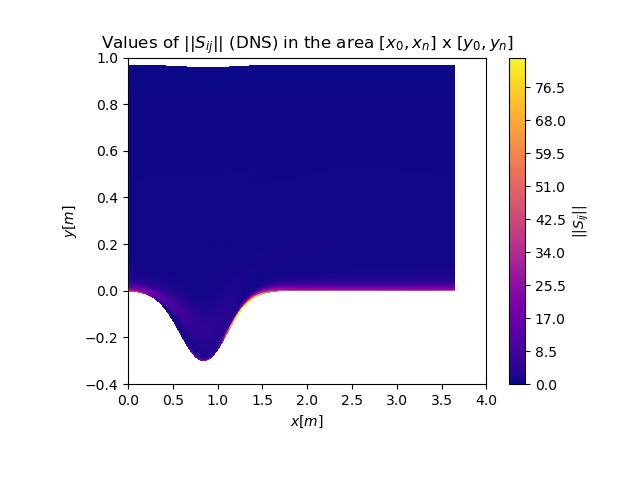
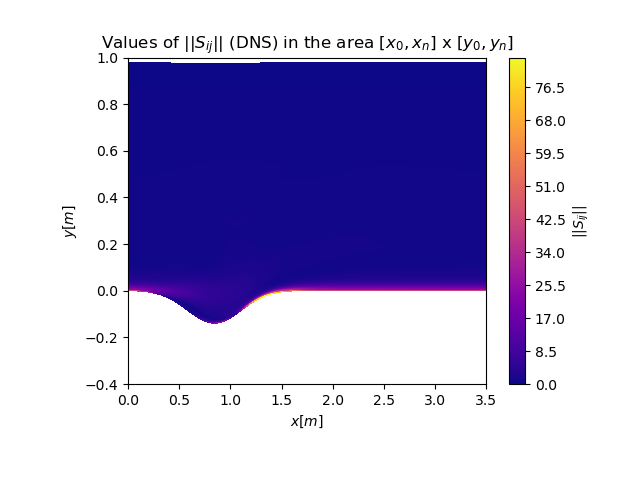
wrong plots

diff --git a/pl_vect2d-1.py b/pl_vect2d-1.py
@@ -481,13 +481,13 @@ y2d = np.delete(y2d, -1, 0)
 y2d = np.delete(y2d, -1, 1)
 # y2d = np.delete(y2d,  0,1)
 
-
+# SHOULD PLOTS USE x2d or xp2d, y2d or xp2d (large/small)
 # plot the
 fig1, ax1 = plt.subplots()
 plt.subplots_adjust(left=0.20, bottom=0.20)
-fig1.colorbar(plt.contourf(x2d, y2d, cmy_DNS, 1000, cmap=plt.get_cmap("plasma")), ax=ax1, label="$C_\mu$")
+fig1.colorbar(plt.contourf(xp2d, yp2d, cmy_DNS, 1000, cmap=plt.get_cmap("plasma")), ax=ax1, label="$C_\mu$")
 plt.axis([0, 3.5, -0.4, 1])
-plt.title("Values of $C_\mu$ (DNS) in the area $[x_0,x_n] x [y_0,y_n]$")
+plt.title("Values of $C_\mu$ (DNS large) in the area $[x_0,x_n] x [y_0,y_n]$")
 plt.xlabel("$x [m]$")
 plt.ylabel("$y [m]$")
 plt.savefig("pictures/C_my_in_domain.png")
@@ -497,16 +497,16 @@ y_svr = np.reshape(y_svr, (ni, nj))
 
 fig2, ax2 = plt.subplots()
 plt.subplots_adjust(left=0.20, bottom=0.20)
-fig2.colorbar(plt.contourf(x2d, y2d, cmy_DNS_large, 1000, cmap=plt.get_cmap("plasma")), ax=ax2, label="$C_\mu$") # y_svr
+fig2.colorbar(plt.contourf(xp2d_large, yp2d_large, cmy_DNS_large, 1000, cmap=plt.get_cmap("plasma")), ax=ax2, label="$C_\mu$") # y_svr
 plt.axis([0, 3.5, -0.4, 1])
-plt.title("Values of $C_\mu$ (Prediction) in the area $[x_0,x_n]$ x $[y_0,y_n]$")
+plt.title("Values of $C_\mu$ (DNS small) in the area $[x_0,x_n]$ x $[y_0,y_n]$")
 plt.xlabel("$x [m]$")
 plt.ylabel("$y [m]$")
 plt.savefig("pictures/C_my_pred_in_domain.png")
 
 fig3, ax3 = plt.subplots()
 plt.subplots_adjust(left=0.20, bottom=0.20)
-fig3.colorbar(plt.contourf(x2d, y2d, abs(dudy_large + dvdx_large), 1000, cmap=plt.get_cmap("plasma")), ax=ax3, label="$||S_{ij}||$")
+fig3.colorbar(plt.contourf(xp2d_large, yp2d_large, abs(dudy_large + dvdx_large), 1000, cmap=plt.get_cmap("plasma")), ax=ax3, label="$||S_{ij}||$")
 plt.axis([0, 3.5, -0.4, 1])
 plt.title("Values of $||S_{ij}||$ (DNS) in the area $[x_0,x_n]$ x $[y_0,y_n]$")
 plt.xlabel("$x [m]$")
@@ -515,7 +515,7 @@ plt.savefig("pictures/S_ij_in_domain.png")
 
 fig4, ax4 = plt.subplots()
 plt.subplots_adjust(left=0.20, bottom=0.20)
-fig4.colorbar(plt.contourf(x2d, y2d, u2d_large, 1000, cmap=plt.get_cmap("plasma")), ax=ax4, label="$u(x,y)$")
+fig4.colorbar(plt.contourf(xp2d_large, yp2d_large, u2d_large, 1000, cmap=plt.get_cmap("plasma")), ax=ax4, label="$u(x,y)$")
 plt.axis([0, 3.5, -0.4, 1])
 plt.title("Values of $u(x,y)$ (DNS) in the area $[x_0,x_n]$ x $[y_0,y_n]$")
 plt.xlabel("$x [m]$")
@@ -524,7 +524,7 @@ plt.savefig("pictures/u_in_domain.png")
 
 fig5, ax5 = plt.subplots()
 plt.subplots_adjust(left=0.20, bottom=0.20)
-fig5.colorbar(plt.contourf(x2d, y2d, v2d_large, 1000, cmap=plt.get_cmap("plasma")), ax=ax5, label="$v(x,y)$")
+fig5.colorbar(plt.contourf(xp2d_large, yp2d_large, v2d_large, 1000, cmap=plt.get_cmap("plasma")), ax=ax5, label="$v(x,y)$")
 plt.axis([0, 3.5, -0.4, 1])
 plt.title("Values of $v(x,y)$ (DNS) in the area $[x_0,x_n]$ x $[y_0,y_n]$")
 plt.xlabel("$x [m]$")
@@ -533,7 +533,7 @@ plt.savefig("pictures/v_in_domain.png")
 
 fig6, ax6 = plt.subplots()
 plt.subplots_adjust(left=0.20, bottom=0.20)
-fig6.colorbar(plt.contourf(x2d, y2d, dudy_large, 1000, cmap=plt.get_cmap("plasma")), ax=ax6, label="$\partial u /\partial y$")
+fig6.colorbar(plt.contourf(xp2d_large, yp2d_large, dudy_large, 1000, cmap=plt.get_cmap("plasma")), ax=ax6, label="$\partial u /\partial y$")
 plt.axis([0, 3.5, -0.4, 1])
 plt.title("Values of $dudy$ (DNS) in the area $[x_0,x_n]$ x $[y_0,y_n]$")
 plt.xlabel("$x [m]$")
@@ -542,7 +542,7 @@ plt.savefig("pictures/dudy_in_domain.png")
 
 fig7, ax7 = plt.subplots()
 plt.subplots_adjust(left=0.20, bottom=0.20)
-fig7.colorbar(plt.contourf(x2d, y2d, dvdx_large, 1000, cmap=plt.get_cmap("plasma")), ax=ax7, label="$\partial v /\partial x$")
+fig7.colorbar(plt.contourf(xp2d_large, yp2d_large, dvdx_large, 1000, cmap=plt.get_cmap("plasma")), ax=ax7, label="$\partial v /\partial x$")
 plt.axis([0, 3.5, -0.4, 1])
 plt.title("Values of $dvdx$ (DNS) in the area $[x_0,x_n]$ x $[y_0,y_n]$")
 plt.xlabel("$x [m]$")
@@ -551,7 +551,7 @@ plt.savefig("pictures/dvdx_in_domain.png")
 
 fig8, ax8 = plt.subplots()
 plt.subplots_adjust(left=0.20, bottom=0.20)
-fig8.colorbar(plt.contourf(x2d, y2d, uu2d, 1000, cmap=plt.get_cmap("plasma")), ax=ax8, label="uu2d")
+fig8.colorbar(plt.contourf(xp2d_large, yp2d_large, uu2d_large, 1000, cmap=plt.get_cmap("plasma")), ax=ax8, label="uu2d")
 plt.axis([0, 3.5, -0.4, 1])
 plt.title("Values of $uu$ (DNS) in the area $[x_0,x_n]$ x $[y_0,y_n]$")
 plt.xlabel("$x [m]$")
@@ -560,11 +560,20 @@ plt.savefig("pictures/uu_in_domain.png")
 
 fig9, ax9 = plt.subplots()
 plt.subplots_adjust(left=0.20, bottom=0.20)
-fig9.colorbar(plt.contourf(x2d, y2d, dvdy_large, 1000, cmap=plt.get_cmap("plasma")), ax=ax9, label="$\partial v /\partial y$")
+fig9.colorbar(plt.contourf(xp2d_large, yp2d_large, dvdy_large, 1000, cmap=plt.get_cmap("plasma")), ax=ax9, label="$\partial v /\partial y$")
 plt.axis([0, 3.5, -0.4, 1])
 plt.title("Values of $dvdy$ (DNS) in the area $[x_0,x_n]$ x $[y_0,y_n]$")
 plt.xlabel("$x [m]$")
 plt.ylabel("$y [m]$")
 plt.savefig("pictures/dvdy_in_domain.png")
+
+fig2, ax2 = plt.subplots()
+plt.subplots_adjust(left=0.20, bottom=0.20)
+fig2.colorbar(plt.contourf(xp2d_large, yp2d_large, y_svr, 1000, cmap=plt.get_cmap("plasma")), ax=ax2, label="$C_\mu$") # y_svr
+plt.axis([0, 3.5, -0.4, 1])
+plt.title("Values of $C_\mu$ (Prediction) in the area $[x_0,x_n]$ x $[y_0,y_n]$")
+plt.xlabel("$x [m]$")
+plt.ylabel("$y [m]$")
+plt.savefig("pictures/C_my_pred_in_domain.png")
 
 plt.show()
